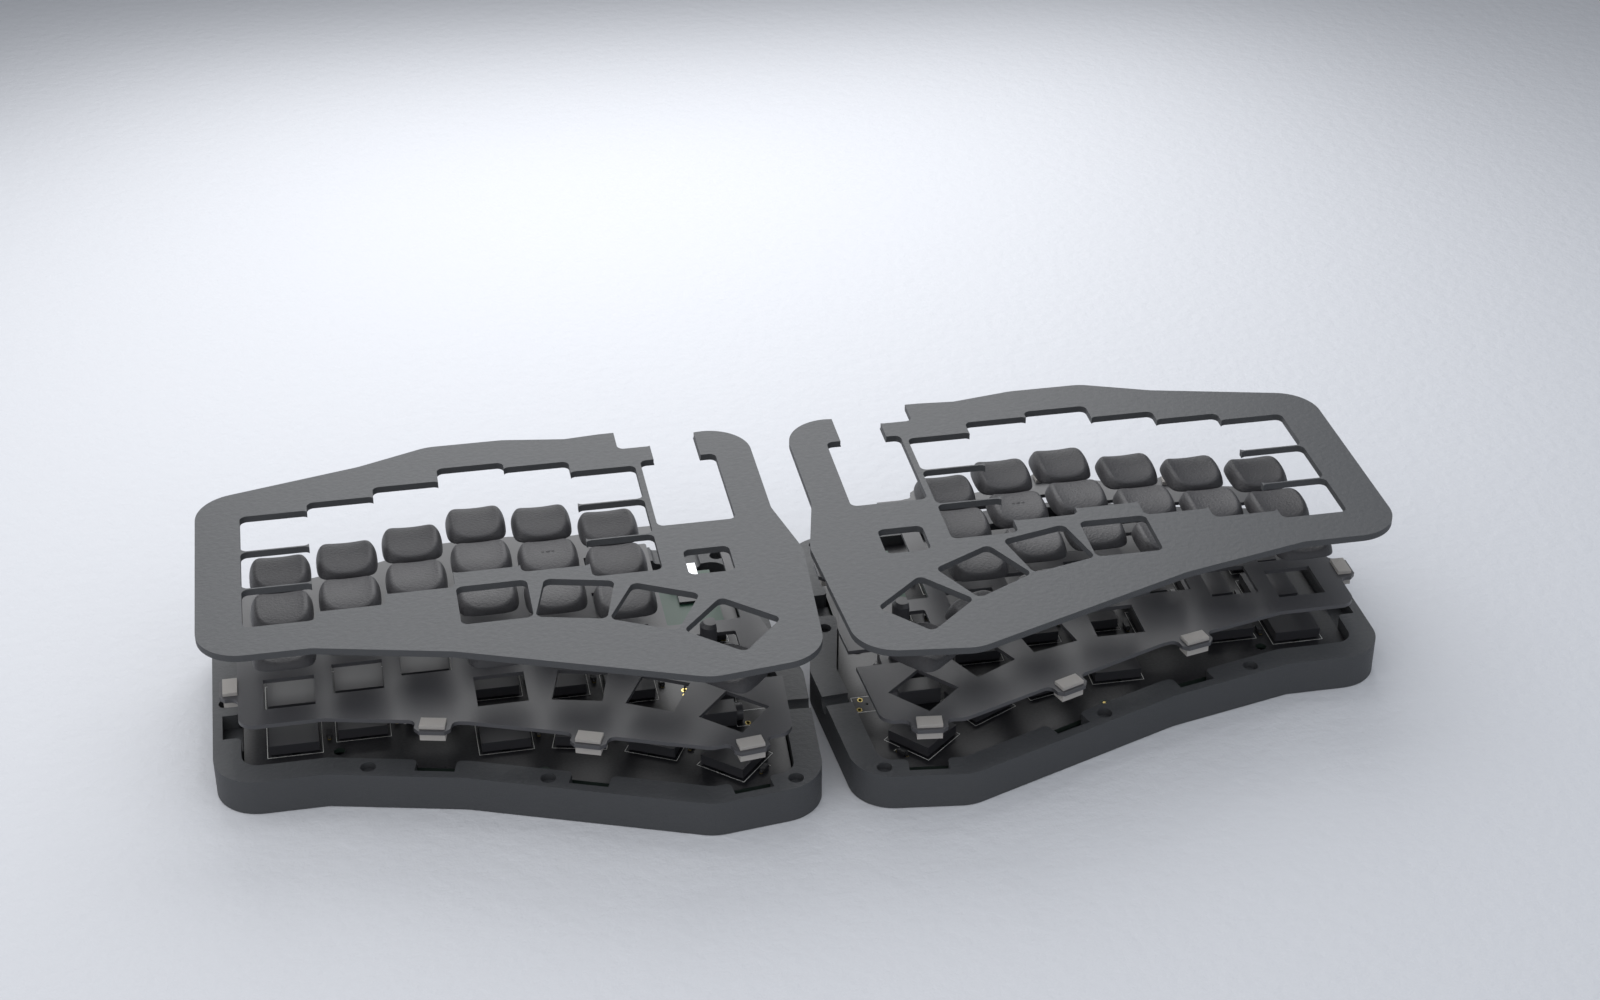
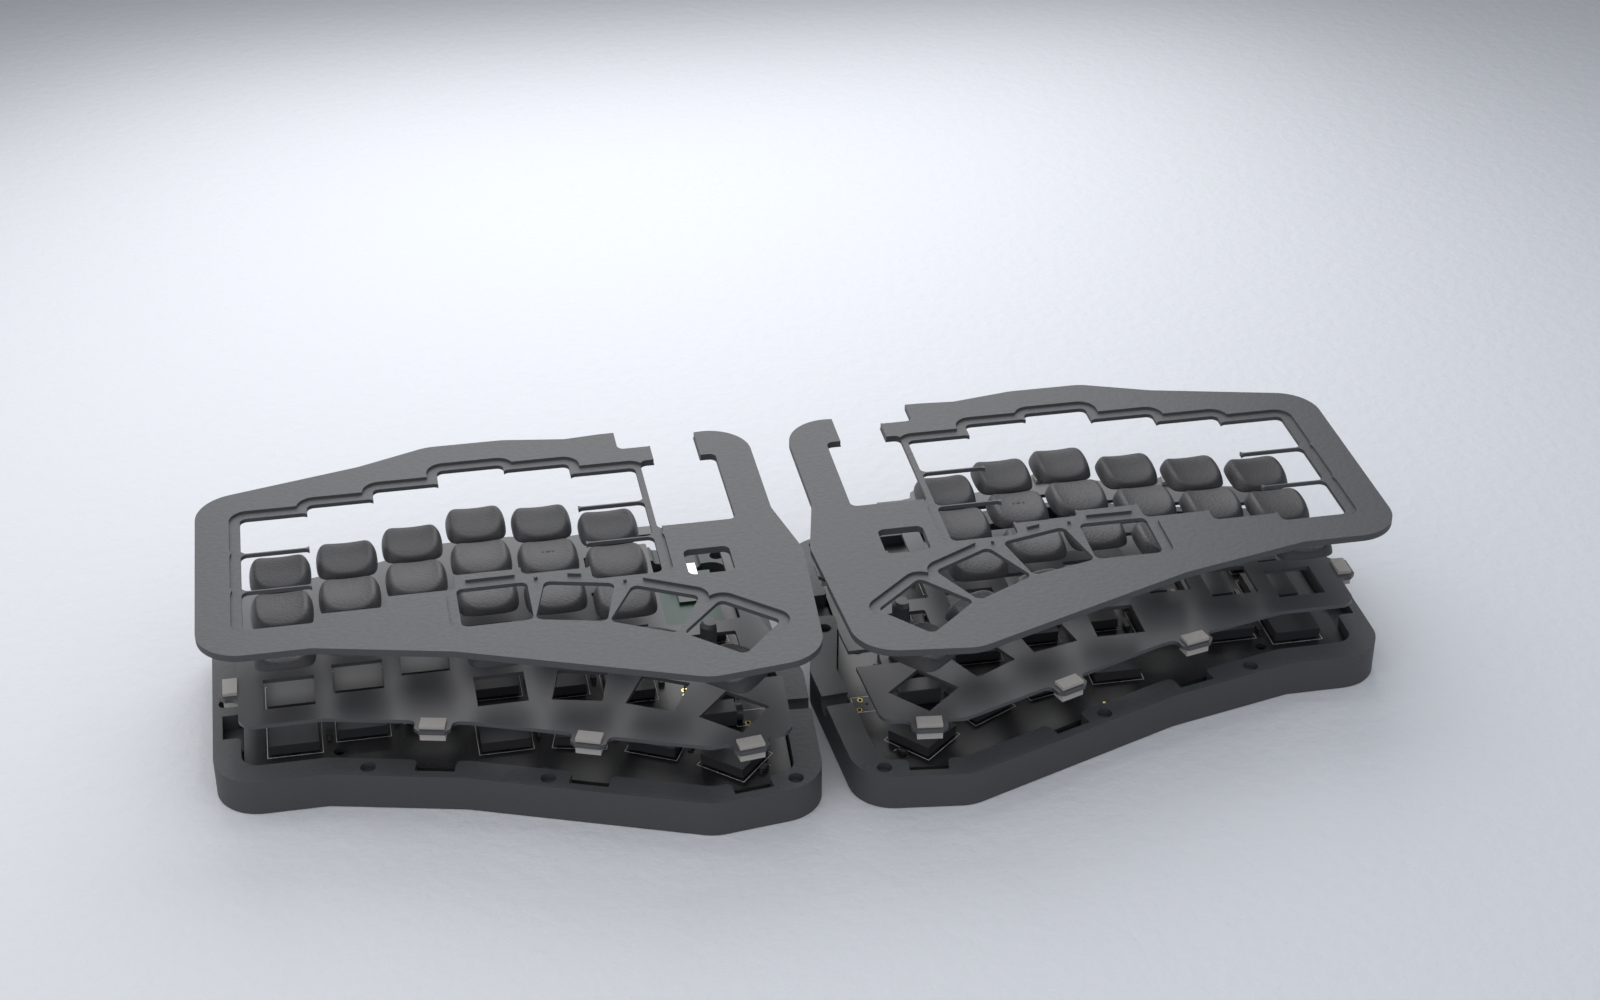
case+renders: key-field ledge, Ø6.0 audio side hole
- relieve a 0.8mm-deep, 3mm-wide ledge around the merged key-field
  opening (KEY_LEDGE_W/D): the caps now stand ~3.2mm proud of the
  surface they sit in, while the outer band, magnets and gasket press
  keep the full 2.0mm plate height. The pad-press gate's second probe
  moved to z0+1.0 so it stays under any ledge
- enlarge the TRRS side hole from Ø5.2 to Ø6.0 (zc 1.5): a 3.5mm plug
  barrel keeps 1.25mm/side and the first few mm of most slim grips
  pass; the 0.7mm closed roof under the 5.2 top is unchanged and
  re-verified by a wall section
- re-render bright hero + exploded at 1600x1000/96; MANIFEST rehashed;
  static gates green

diff --git a/case/params.py b/case/params.py
@@ -140,17 +140,19 @@ POCKET_TOP = TOP_LIP_Z     # open to the top (cover presses upper foam)
 USB_MOUTH_W = 14.0     # notch is 11; +3 for housing shoulders
 USB_MOUTH_Z0 = 2.0     # overmold bottom ~2.8 (axis ~6.1, h ~6.5) + margin
 USB_MOUTH_R = 1.2      # bottom-corner fillet (flat top, see above)
-TRRS_MOUTH_R = 2.6     # Ø5.2 SIDE HOLE, not the old Ø9.5 boot bore.
+TRRS_MOUTH_R = 3.0     # Ø6.0 SIDE HOLE, not the old Ø9.5 boot bore.
 #   Review: the Ø9.5 bore + thin cover cut a rectangular window open to
 #   the top ("gaping"); a 3.5mm plug's METAL barrel is ~Ø3.5-4.0 and the
 #   grip stays outside the 7.6mm wall, so a round Ø5.0 hole passes it.
 #   Its top (zc+r = 4.5) stays 0.7mm under the 5.2 cover top, so the
-#   cover keeps a closed roof over the port. Right-angle plug boots no
-#   longer swing inside; the first article measures the real plug.
-TRRS_MOUTH_ZC = 1.9    # hole centre: jack axis 2.5 dropped to 1.9 so the
-#   Ø5.2 top (4.5) clears under the 5.2 cover top with a 0.7mm roof. The
-#   hole still passes a straight Ø3.5-4.0 barrel (spans 0.75..4.25 at
-#   the jack axis) with margin.
+#   cover keeps a closed roof over the port. Ø6.0 clears a 3.5mm barrel
+#   with 1.25/side and still passes the first few mm of most slim grips;
+#   right-angle boot swing inside is no longer provided (first article
+#   measures the real plug).
+TRRS_MOUTH_ZC = 1.5    # hole centre: jack axis 2.5 dropped to 1.5 so the
+#   Ø6.0 top (4.5) clears under the 5.2 cover top with a 0.7mm roof. A
+#   straight Ø3.5-4.0 barrel (spans 0.75..4.25 at the jack axis) keeps
+#   0.25-0.5mm top margin.
 
 # ---- power-switch actuator window (v3.5, north rim) ----
 # WS-SLTV (450301014042, Wuerth datasheet + KiCad footprint name
@@ -294,6 +296,12 @@ COVER_T = 2.0          # 3.20..5.20 (TOP_LIP_Z + 2.0): a thin top
 #   pwrsw     = body window + nail slot to the north skin
 CAP_FOOT_W = 17.48     # KLP Saddle / Thumb plan footprint (measured)
 CAP_FOOT_H = 16.48
+KEY_LEDGE_W = 3.0      # shallow ledge around the key-field opening:
+KEY_LEDGE_D = 0.8      # the cover top drops 0.8mm over a 3mm border so
+                       # the caps stand ~3.2mm proud of the surface they
+                       # sit in (review: 2.4mm still read as flush). The
+                       # outer band, magnets and gasket press stay at the
+                       # full 2.0mm plate height.
 CAP_CLEAR = 1.0        # key-field opening clearance per side. gen_cover
                        # fills the union's enclosed holes, so the
                        # staggered caps become ONE opening with no cover

diff --git a/case/gen_cover.py b/case/gen_cover.py
@@ -121,6 +121,18 @@ def build_cover(tag):
     for (cx, cy, ang) in holes:
         s = rrect(kw, kh, P.CAP_ROUND, cx, cy, ang, z0 - 1.0, z1 + 1.0)
         cutter = s if cutter is None else cutter.fuse(s)
+    # ---- shallow ledge around the key field: the cover top drops
+    # KEY_LEDGE_D over a KEY_LEDGE_W border, so the caps stand proud of
+    # the surface they sit in while the outer band/magnets keep the full
+    # plate height (review: 2.4mm still read as flush).
+    lw = P.CAP_FOOT_W + 2 * (P.CAP_CLEAR + P.KEY_LEDGE_W)
+    lh = P.CAP_FOOT_H + 2 * (P.CAP_CLEAR + P.KEY_LEDGE_W)
+    ledge = None
+    for (cx, cy, ang) in holes:
+        s = rrect(lw, lh, P.CAP_ROUND + P.KEY_LEDGE_W, cx, cy, ang,
+                  z1 - P.KEY_LEDGE_D, z1 + 1.0)
+        ledge = s if ledge is None else ledge.fuse(s)
+    solid = solid.cut(ledge)
     # ---- component windows (MCU / encoder / pwrsw body; mirrored) ------
     for (x0, y0, x1, y1) in (win2(tag, P.MCU_WIN), win2(tag, P.ENC_WIN),
                              win2(tag, P.PWRSW_WIN)):
@@ -210,7 +222,10 @@ def check_cover(tag, solid, info):
     #    samples clear of every port rect
     for (px, py) in info["pad_centers"]:
         expect("cover presses tab pad", px, py, z0 + 0.2, True)
-        expect("cover presses tab pad", px, py, z0 + 1.5, True)
+        # second probe stays under any key-field ledge (the ledge only
+        # trims the top KEY_LEDGE_D over a border; the press face and
+        # >=1.0mm of material over the pad must remain)
+        expect("cover presses tab pad", px, py, z0 + 1.0, True)
     skin, cav = info["skin"], info["cav_poly"]
     snorm = G.outward_field(skin)
     hits = 0
@@ -252,7 +267,7 @@ def check_cover(tag, solid, info):
         o, u = pr["o"], pr["u"]
         dt = P.CASE_OUTSET / 2.0
         zbs = (z0 + 0.4, z1 - 0.4) if name == "usb" else \
-            (z0 + 0.3, P.TRRS_MOUTH_ZC + 2.0)
+            (z0 + 0.3, z0 + 1.0)
         for zb in zbs:
             expect(f"{name} passage void", o[0] + u[0] * dt,
                    o[1] + u[1] * dt, zb, False)

diff --git a/renders/scene.py b/renders/scene.py
@@ -23,8 +23,9 @@ STACK (z=0 is the PCB top; thin-top round):
   plate                    1.00..2.20
   switch body              0.30..3.30, cap stem tip 1.50
   top gaskets              2.20..3.20     (1.5 poron compressed to 1.00)
-  flat KLP Saddle top      7.58           (2.4 mm proud of the top case)
-  top cover plate          3.20..5.20     (key field + component windows)
+  flat KLP Saddle top      7.58           (~3.2 mm proud of the ledge)
+  top cover plate          3.20..5.20     (key field + component windows;
+                                           key field ledge relieved 4.40)
   encoder left bare (no knob in the product views)
 
 The assembled halves are used at their committed positions — the case

diff --git a/spec/case.md b/spec/case.md
@@ -26,7 +26,7 @@ Encoder push over the window zone stays soft by design.
 
 | Layer | Spec |
 |---|---|
-| Top case | BUILT — **top plate v4** (`case/gen_cover.py`, gates exit-0): thin plate spanning z **3.20..5.20** (lip 3.20 = plate top 2.20 + 1.00 compressed top foam; 2.0mm thick). It covers the key field between caps and the MCU/encoder strip: ONE merged key-field opening around the 22 KLP cap footprints (17.48×16.48 + 1.0/side), windows for the MCU, the EC11 body (12.0×11.7 measured at the cover band +0.5/side, hiding the terminal base), the pwrsw body/nail, the shared USB slot and a **Ø5.2 round TRRS side hole** closed by a 0.7mm roof (straight 3.5mm plugs; the old Ø9.5 boot bore was the "gaping" opening the review rejected). Presses the top poron pads; 8×Ø4.3×0.7 magnet pockets mirroring the tub's; keycaps stand 2.4mm proud; no cover material within 3mm of the antenna (gated) |
+| Top case | BUILT — **top plate v4** (`case/gen_cover.py`, gates exit-0): thin plate spanning z **3.20..5.20** (lip 3.20 = plate top 2.20 + 1.00 compressed top foam; 2.0mm thick). It covers the key field between caps and the MCU/encoder strip: ONE merged key-field opening around the 22 KLP cap footprints (17.48×16.48 + 1.0/side), windows for the MCU, the EC11 body (12.0×11.7 measured at the cover band +0.5/side, hiding the terminal base), the pwrsw body/nail, the shared USB slot and a **Ø6.0 round TRRS side hole** (zc 1.5) closed by a 0.7mm roof (straight 3.5mm plugs; the old Ø9.5 boot bore was the "gaping" opening the review rejected). A **0.8mm-deep, 3mm-wide ledge** is relieved around the key field so the caps stand ~3.2mm proud of the surface they sit in. Presses the top poron pads; 8×Ø4.3×0.7 magnet pockets mirroring the tub's; no cover material within 3mm of the antenna (gated) |
 | Top gaskets | Poron pads 7×4mm on each tab (PORON layer in the DXF), **1.5mm** thick (thin-top revision; compressed to 1.00 at 33% — TOP_FOAM_T/TOP_PRELOAD in `case/params.py`) |
 | Plate | **1.2mm** (material below), outline = PCB outline + tabs (USB notch included). 1.2mm is the Choc v1 clip-engagement thickness (Keebio: a Choc plate must be 1.2mm for the clip to engage; at 1.5/1.6mm the "lower catch doesn't engage" and the switch is held by friction alone) |
 | Plate↔PCB gap | **1.00mm** — the Choc v1 clip band. MEASURED from the Kailh Choc v1 outline drawing + a community STEP model (`spec/research-open-items-2026-10-21.md` §PG1350): above the PCB the switch is skirt 0–0.9, **flexible clip arms 0.9–1.3 (their lip grabs the plate underside)**, then the **14.8–15.0 "ears" at 2.2–3.0 that bear on the plate's top**. So the plate must sit between the lip (≤1.3) and the ears (2.2): a 1.2mm plate on a 1.00mm gap occupies **1.00–2.20** — the lip grabs the underside, the ears seat exactly on the top. A 1.05 gap lifts the ears 0.05 into the plate; a 1.3 gap drives the plate top through the ears (no grab at all). The 22 top-side diodes are the only thing under the plate in the matrix field, so the plate carries a **0.55mm relief pocket** under each one (RELIEF layer in the DXF: machine 0.55mm into the underside, do NOT cut through; `plate/gen_plate.py` `DIODE_RELIEF_D`, asserted against `DIODE_TOP_MAX_Z = 1.40`). The pocket XY is the **SOD-123 outline MAX (DS30086 rev 31-2: E 2.55–2.85 long, D 1.40–1.70 wide — `D` is width, A 1.00–1.35 is the height)**, which also covers the KiCad STEP's widest section (2.700 × 1.550 at the plate plane; the earlier 2.566 × 1.416 was the chamfered top face), + **0.15/side** → pocket **3.15 × 2.00** (measured top **1.260mm**; relief floor at 1.00 + 0.55 = **1.55mm**, **0.15mm** over the 1.40 window top and 0.65mm of plate under it) |

diff --git a/case/README.md b/case/README.md
@@ -39,7 +39,10 @@ entry below is the current truth for every number it quotes.)
   caps barely poked out. The plate CANNOT move up (Choc v1 clip band
   1.00..2.20, spec/case.md), so the top came down instead: TOP_LIP_Z
   4.70 -> 3.20 (the 1.5mm TOP_FOAM_T at 33% compression; new
-  TOP_PRELOAD) and COVER_T 3.0 -> 2.0. Caps now stand 2.4mm proud.
+  TOP_PRELOAD) and COVER_T 3.0 -> 2.0. A 0.8mm-deep, 3mm-wide
+  LEDGE (KEY_LEDGE_W/D) is relieved around the key field, so the
+  caps stand ~3.2mm proud of the surface they sit in while the
+  outer band/magnets keep the full 2.0mm plate height.
   The cover spans the key field with ONE merged opening around the 22
   KLP cap footprints (17.48x16.48 + CAP_CLEAR 1.0; enclosed material
   islands are dropped as void and gated by a scrap-volume limit) and
@@ -47,8 +50,8 @@ entry below is the current truth for every number it quotes.)
   from 17.2x13.2 to 13.0x12.7 = the measured 12.0x11.7 EC11 body at
   the cover band +0.5/side, so the rectangular terminal base is now
   hidden), PWRSW_WIN + nail notch, the shared USB slot, and the TRRS as
-  a **Ø5.2 round SIDE hole** (zc 1.9, 0.7mm closed roof under the 5.2
-  top) instead of the Ø9.5 top-open notch. Cover magnets Ø4x0.5 (pocket
+  a **Ø6.0 round SIDE hole** (zc 1.5, 0.7mm closed roof under the 5.2
+  top; clears a 3.5mm barrel 1.25/side) instead of the Ø9.5 top-open notch. Cover magnets Ø4x0.5 (pocket
   0.7, floor 1.3). New CASE_OUT env var builds to case/out-dev so the
   placed v0.5.0 order record in case/out stays hash-valid. Gates: both
   tubs and both covers exit 0; cover 16.7 cm3, 8 enclosed scraps

diff --git a/renders/README.md b/renders/README.md
@@ -72,8 +72,10 @@ required alongside any use of these shapes.
 - Stack (z = 0 at the PCB top, thin-top revision): substrate −1.60..0;
   bottom gaskets −1.55..1.00 (3.0 poron → 2.55); plate 1.00..2.20;
   switch body 0.30..3.30; cap stem tip 1.50; top gaskets 2.20..3.20
-  (1.5 poron → 1.00, 33%); flat cap top 7.58, i.e. 2.4 mm proud of the
-  3.20..5.20 top plate. The plate stays at the Choc v1 clip band
+  (1.5 poron → 1.00, 33%); flat cap top 7.58, i.e. ~3.2 mm proud of the
+  4.40 surfaced key-field ledge (the 3.20..5.20 plate is relieved 0.8 mm
+  over a 3 mm border around the opening; the outer band stays at 5.20).
+  The plate stays at the Choc v1 clip band
   (1.00..2.20) — moving it up would lose the clip engagement — so the
   thin top comes from the lip/plate above it. The top plate carries the
   key-field opening and the MCU/encoder/pwrsw windows, so the wiring
